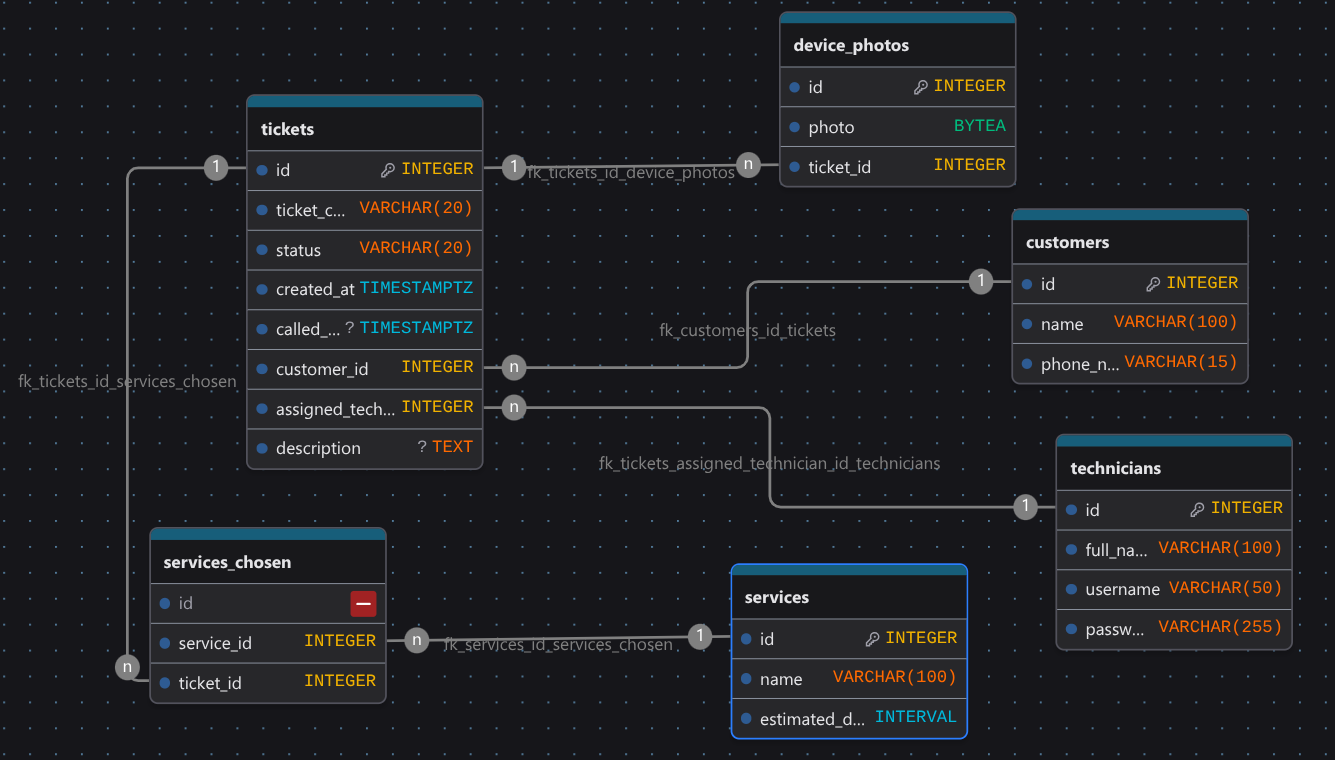
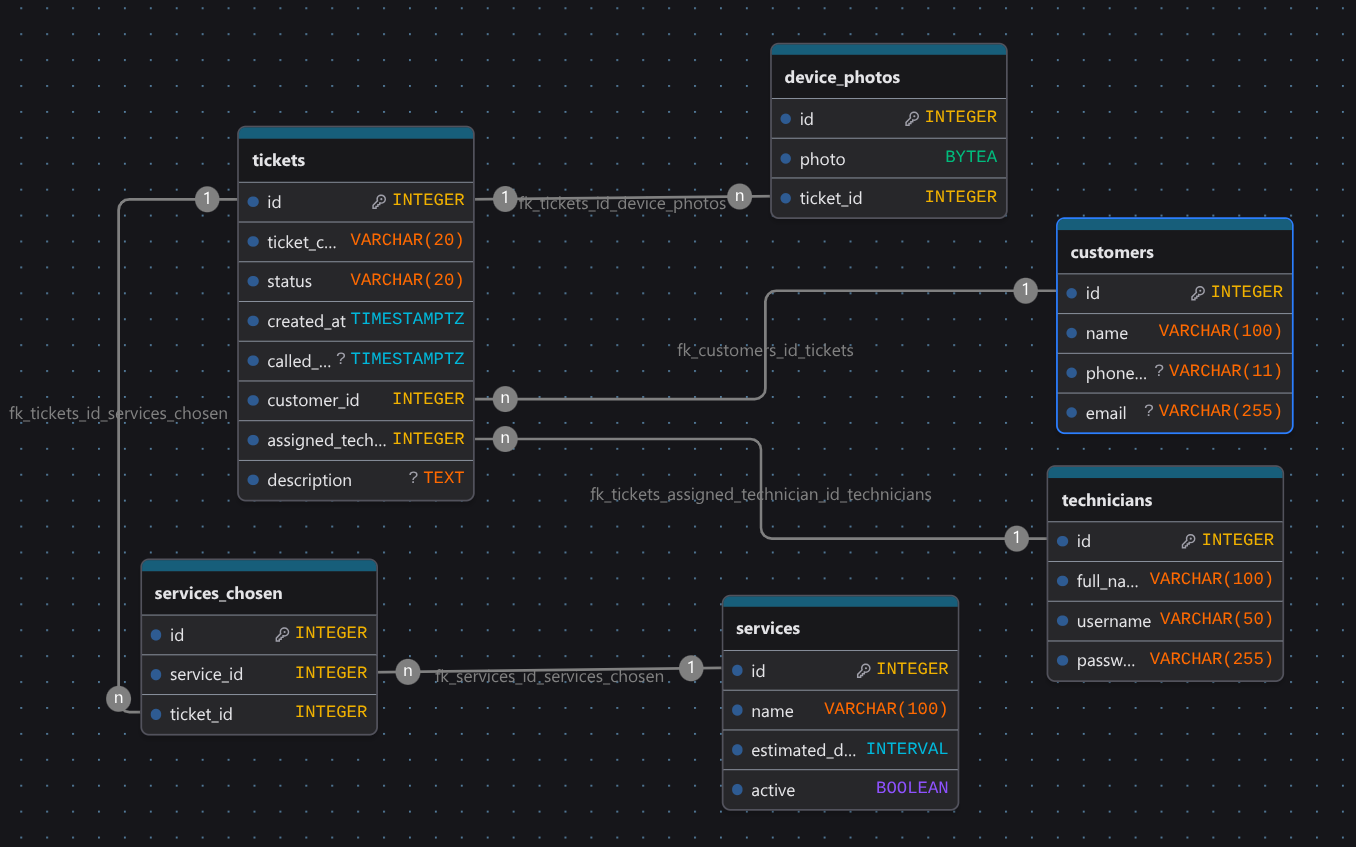
Updated schema.md to match the changes I made in the actual schema

Changed region(s): [[0.0, 0.0, 0.9828, 0.9987], [0.2764, 0.6053, 0.3071, 0.6355]]

diff --git a/my-app/docs/week4/schema.md b/my-app/docs/week4/schema.md
@@ -33,8 +33,8 @@
 | ----- | ----- |
 | `tickets` | id, ticket_code, status, created_at, called_at, service_id, customer_id, assigned_technician_id |
 | `device_photos` | id, photo, ticket_id |
-| `services` | id, name, estimated_duration |
-| `customers` | id, name, phone_number |
+| `services` | id, name, estimated_duration, active |
+| `customers` | id, name, phone_number, email |
 | `technicians` | id, full_name, username, password_hash |
 | `services_chosen` | id, service_id, ticket_id |
 
@@ -59,7 +59,8 @@
 | `services` | `estimated_duration` | `integer` | `NOT NULL, CHECK (estimated_duration > 0)` | Stores a positive estimated duration in minutes as a number |
 | `customers` | `id` | `integer GENERATED ALWAYS AS IDENTITY` | `PRIMARY KEY` | Database-generated identifier for each customer |
 | `customers` | `name` | `varchar(100)` | `NOT NULL` | A customer name is required to create a ticket |
-| `customers` | `phone_number` | `varchar(15)` | `NOT NULL` | Required contact detail; text preserves leading zeros and symbols used in phone numbers |
+| `customers` | `phone_number` | `varchar(15)` | `NULLABLE` | Required contact detail; text preserves leading zeros and symbols used in phone numbers |
+| `customers` | `email` | `varchar(255)` | `NULLABLE` | Customer can either use email or phone number as contact detail |
 | `technicians` | `id` | `integer GENERATED ALWAYS AS IDENTITY` | `PRIMARY KEY` | Database-generated identifier for each technician |
 | `technicians` | `full_name` | `varchar(100)` | `NOT NULL` | A technician's name is required |
 | `technicians` | `username` | `varchar(50)` | `NOT NULL UNIQUE` | Requires a login name that is unique to each technician |
